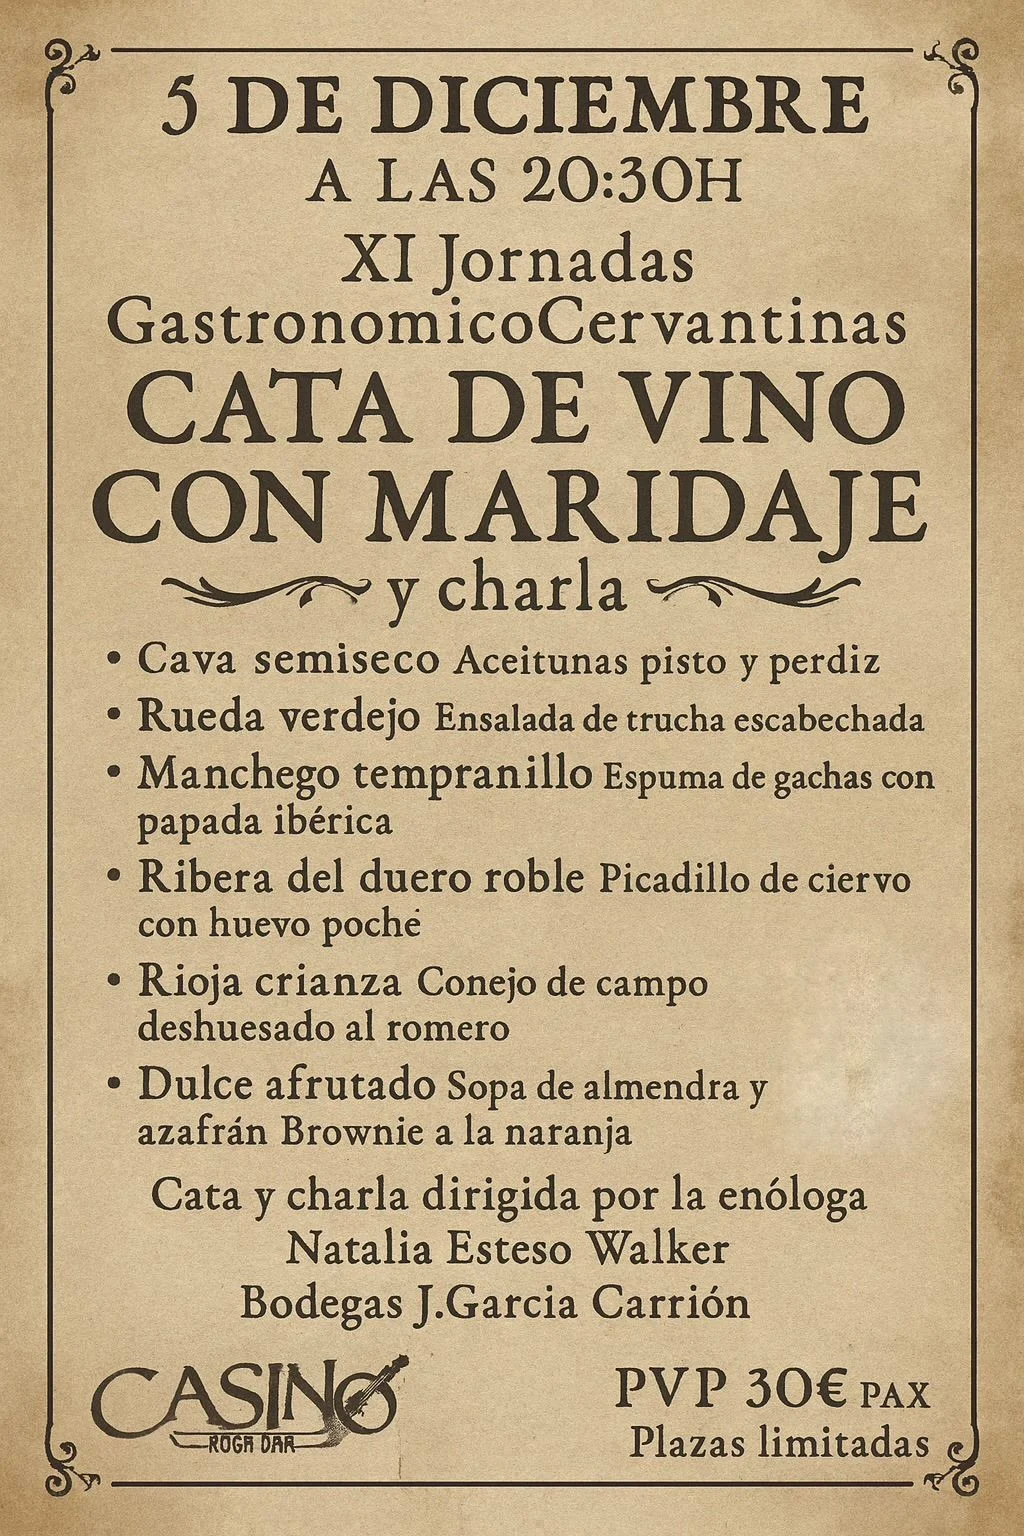
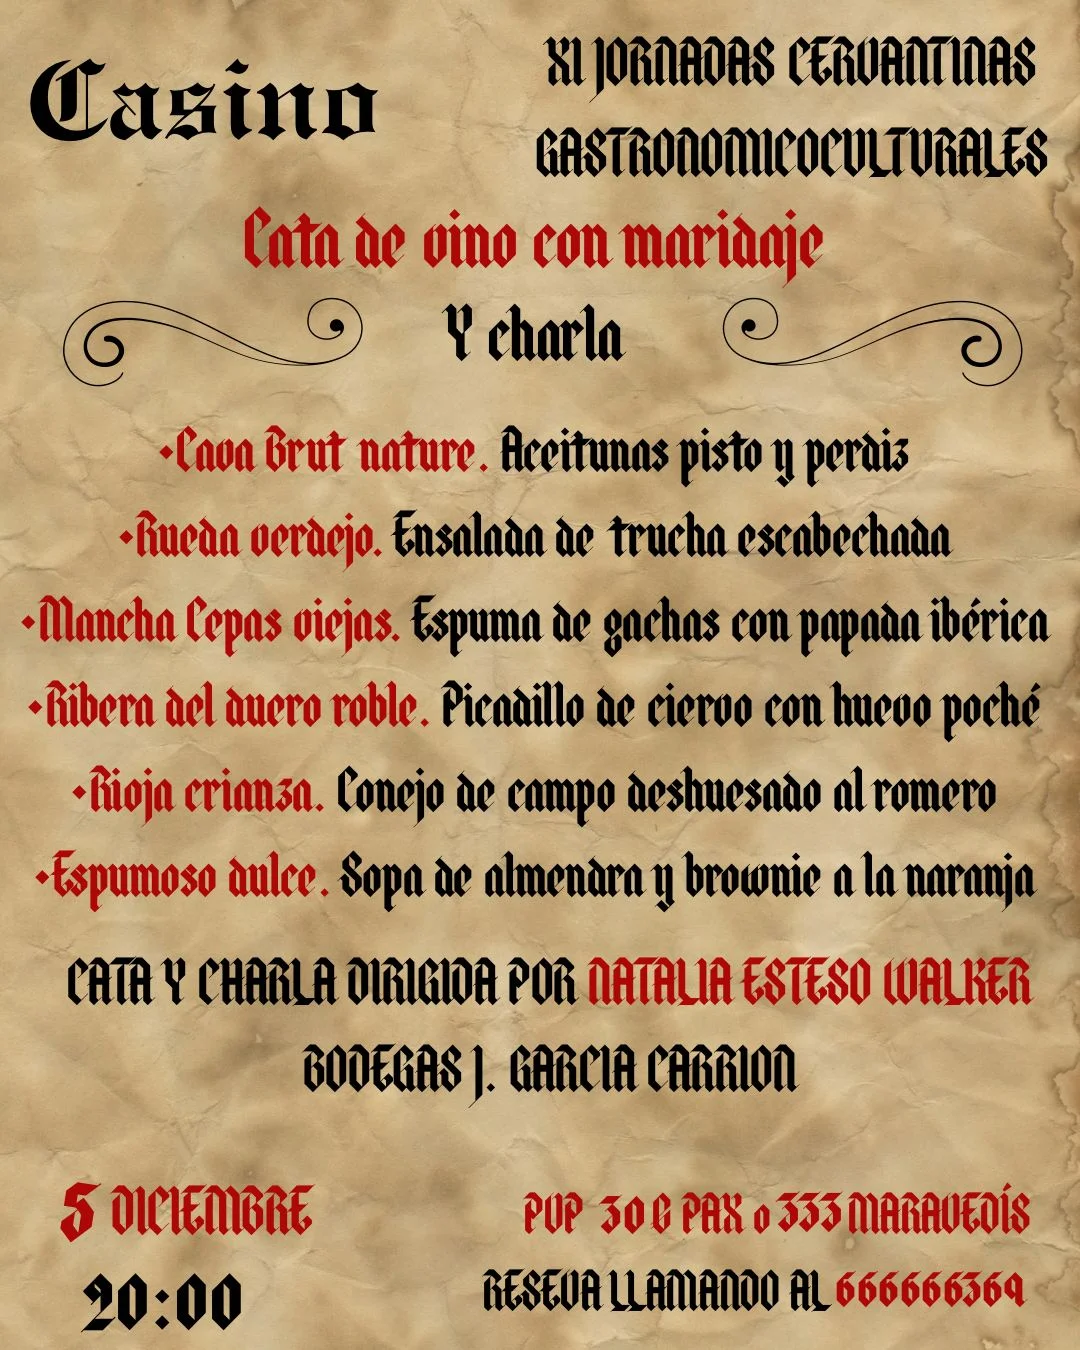
hot fix

diff --git a/frontend/src/app/features/welcome/pages/welcome-page/welcome-page.ts b/frontend/src/app/features/welcome/pages/welcome-page/welcome-page.ts
@@ -15,7 +15,7 @@ export class Welcome implements AfterViewInit, OnDestroy {
   images = [
     { src: 'assets/logoCasinoVertical.png', alt: 'Logo' },
     { src: 'assets/eventos/laPuraSangre.webp', alt: 'La Pura Sangre' },
-    { src: 'assets/eventos/fiestaRemember2025.webp', alt: 'Fiesta Remember 2025' }
+    { src: 'assets/eventos/cartajornadas2025.webp', alt: 'Fiesta Remember 2025' }
   ];
 
   showCarousel = true;
